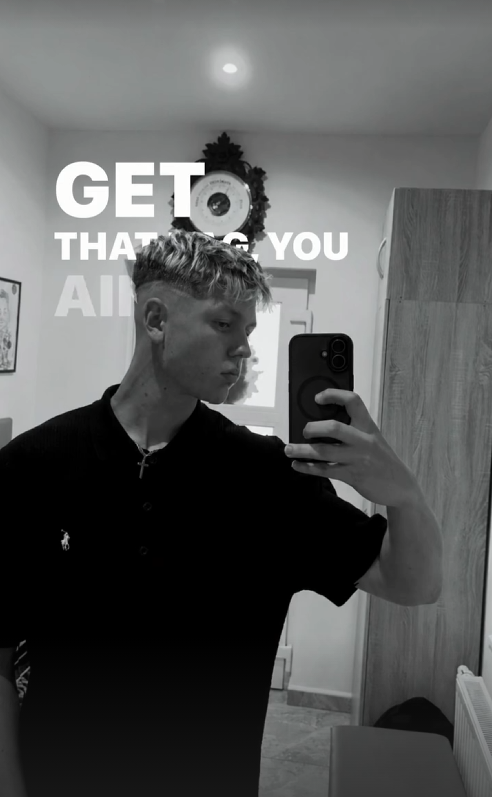
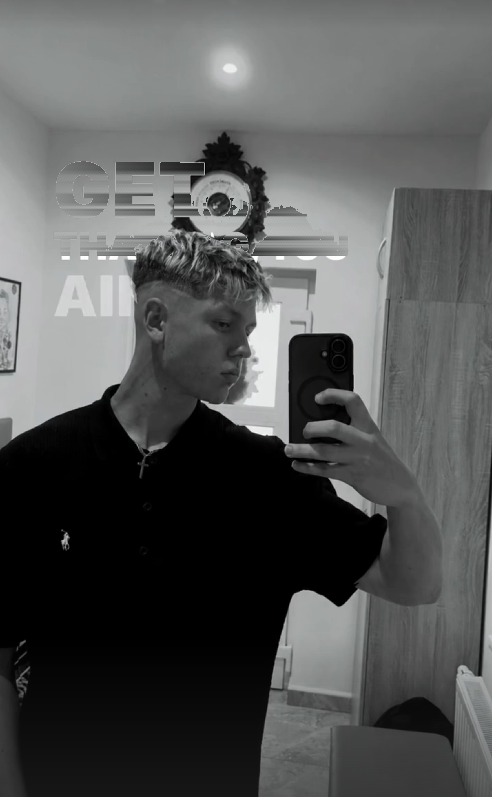
feat: pridani projektu Powerent, aktualizace projektove sekce, retus textu z pozadi fotografie a pristupnost prepinace motivu

Changed region(s): [[0.0915, 0.1807, 0.4268, 0.3312], [0.4573, 0.2409, 0.7317, 0.3312]]

diff --git a/index.html b/index.html
@@ -43,7 +43,7 @@
       </nav>
 
       <div class="nav-actions">
-        <button id="theme-toggle" class="icon-btn" aria-label="Přepnout motiv">
+        <button id="theme-toggle" class="icon-btn" aria-label="Přepnout tmavý/světlý režim" title="Přepnout tmavý/světlý režim">
           <i class="fa-solid fa-sun icon-sun"></i>
           <i class="fa-solid fa-moon icon-moon"></i>
         </button>
@@ -279,42 +279,43 @@
         <!-- Interaktivní filtr projektů -->
         <div class="projects-filter reveal">
           <button class="filter-btn active" data-filter="all">Všechny projekty</button>
-          <button class="filter-btn" data-filter="electro">Elektrotechnika</button>
+          <button class="filter-btn" data-filter="electro">Elektrotechnika & Vývoj</button>
           <button class="filter-btn" data-filter="web">Web & IT</button>
-          <button class="filter-btn" data-filter="sport">Sport & Úspěchy</button>
+          <button class="filter-btn" data-filter="sport">Sport & Zkušenosti</button>
         </div>
 
         <div class="projects-grid">
-          <!-- Projekt 1: Praktické elektro zapojení -->
+          <!-- Projekt 1: Powerent (ve vývoji) -->
           <div class="project-card reveal" data-category="electro">
-            <div class="project-badge"><i class="fa-solid fa-bolt"></i> Školní praxe</div>
+            <div class="project-badge"><i class="fa-solid fa-spinner fa-spin"></i> Ve vývoji</div>
             <div class="project-body">
-              <div class="project-cat">Elektrotechnika</div>
-              <h3 class="project-title">Návrh a realizace měřicího obvodu</h3>
+              <div class="project-cat">Technologický projekt</div>
+              <h3 class="project-title">Powerent</h3>
               <p class="project-desc">
-                Praktické sestavení zkušebního obvodu v dílnách SPŠ Hradební. Schéma zapojení, montáž ochranných prvků a diagnostika parametrů pomocí digitálního multimetru a osciloskopu.
+                Projekt, který vytvářím společně se spolužákem. Aktuálně je ve fázi aktivního vývoje a přípravy („na cestě“). Zaměřuje se na praktické technologické inovace a moderní technická řešení.
               </p>
               <div class="project-tags">
-                <span>Elektroinstalace</span>
-                <span>Měření</span>
-                <span>Bezpečnost</span>
+                <span>Powerent</span>
+                <span>Spolupráce</span>
+                <span>Ve vývoji</span>
               </div>
               <div class="project-footer">
-                <span class="project-meta"><i class="fa-solid fa-calendar-check"></i> Školní rok 2025/2026</span>
+                <span class="project-meta"><i class="fa-solid fa-clock"></i> Aktuálně ve vývoji</span>
               </div>
             </div>
           </div>
 
           <!-- Projekt 2: Osobní webové portfolio -->
           <div class="project-card reveal delay-1" data-category="web">
-            <div class="project-badge"><i class="fa-solid fa-code"></i> Digitální projekt</div>
+            <div class="project-badge"><i class="fa-solid fa-code"></i> Vlastní projekt</div>
             <div class="project-body">
               <div class="project-cat">Webový vývoj</div>
-              <h3 class="project-title">Responzivní osobní portfolio & vizitka</h3>
+              <h3 class="project-title">Osobní web & digitální vizitka</h3>
               <p class="project-desc">
-                Moderní, čistý a plně responzivní statický web vytvořený v HTML5, CSS3 a čistém JavaScriptu. Obsahuje přepínání témat (dark/light), interaktivní filtr projektů, animace při skrolování a hosting přes GitHub Pages.
+                Můj vlastní projekt responzivního osobního portfolia vytvořený od základu v čistém HTML5, moderním CSS3 a JavaScriptu. Zahrnuje přepínání tmavého a světlého režimu, filtrování projektů, animace při skrolování a publikaci na GitHub Pages.
               </p>
               <div class="project-tags">
+                <span>Vlastní tvorba</span>
                 <span>HTML5 / CSS3</span>
                 <span>JavaScript</span>
                 <span>GitHub Pages</span>
@@ -327,42 +328,43 @@
             </div>
           </div>
 
-          <!-- Projekt 3: Plánovaný projekt / Revizní příprava -->
-          <div class="project-card reveal delay-2" data-category="electro">
-            <div class="project-badge"><i class="fa-solid fa-compass-drafting"></i> Plánovaný projekt</div>
+          <!-- Projekt 3: Dlouhodobá fotbalová aktivita -->
+          <div class="project-card reveal delay-2" data-category="sport">
+            <div class="project-badge"><i class="fa-solid fa-futbol"></i> Dlouhodobá aktivita</div>
             <div class="project-body">
-              <div class="project-cat">Revizní technika</div>
-              <h3 class="project-title"><!-- TODO: doplnit --> Příprava modelové revizní zprávy</h3>
+              <div class="project-cat">Sport & Týmovost</div>
+              <h3 class="project-title">Dlouhodobá fotbalová dráha</h3>
               <p class="project-desc">
-                Cílený studijní projekt zaměřený na postup provádění výchozí revize elektrické instalace nízkého napětí podle platných ČSN norem včetně vypracování strukturovaného protokolu.
+                Fotbal hraji dlouhodobě jako svou hlavní sportovní aktivitu. Pravidelný trénink a soutěžní zápasy mi daly pevnou sebedisciplínu, vytrvalost, schopnost táhnout za jeden provaz a odpovědnost vůči celému týmu.
               </p>
               <div class="project-tags">
-                <span>ČSN normy</span>
-                <span>Revizní zpráva</span>
-                <span>Dokumentace</span>
+                <span>Fotbal</span>
+                <span>Dlouhodobá praxe</span>
+                <span>Týmový duch</span>
+                <span>Disciplína</span>
               </div>
               <div class="project-footer">
-                <span class="project-meta"><!-- TODO: doplnit --> Příprava k maturitní práci</span>
+                <span class="project-meta"><i class="fa-solid fa-trophy"></i> Dlouhodobá zkušenost</span>
               </div>
             </div>
           </div>
 
-          <!-- Projekt 4: Sportovní úspěchy & Fotbalový tým -->
-          <div class="project-card reveal delay-3" data-category="sport">
-            <div class="project-badge"><i class="fa-solid fa-medal"></i> Sportovní dráha</div>
+          <!-- Projekt 4: Praktické elektro zapojení a měření -->
+          <div class="project-card reveal delay-3" data-category="electro">
+            <div class="project-badge"><i class="fa-solid fa-bolt"></i> Školní praxe</div>
             <div class="project-body">
-              <div class="project-cat">Sport & Vedení</div>
-              <h3 class="project-title">Aktivní fotbalová kariéra & soutěže</h3>
+              <div class="project-cat">Elektrotechnika</div>
+              <h3 class="project-title">Návrh a realizace měřicího obvodu</h3>
               <p class="project-desc">
-                Dlouhodobé působení ve fotbalovém týmu. Pravidelná účast v soutěžních zápasech, rozvoj fyzické odolnosti a schopnosti koordinovat herní situace v krizových momentech zápasu.
+                Praktické sestavení zkušebního obvodu v dílnách SPŠ Hradební. Schéma zapojení, montáž ochranných prvků a diagnostika parametrů pomocí měřicí techniky.
               </p>
               <div class="project-tags">
-                <span>Týmový sport</span>
-                <span>Disciplína</span>
-                <span>Vytrvalost</span>
+                <span>Elektroinstalace</span>
+                <span>Měření</span>
+                <span>Bezpečnost</span>
               </div>
               <div class="project-footer">
-                <span class="project-meta"><i class="fa-solid fa-trophy"></i> Dlouhodobá aktivita</span>
+                <span class="project-meta"><i class="fa-solid fa-calendar-check"></i> Školní rok 2025/2026</span>
               </div>
             </div>
           </div>

diff --git a/README.md b/README.md
@@ -14,7 +14,7 @@ Web je rozdělen do 6 přehledných sekcí s intuitivní navigací:
    - Software & IT nástroje (CAD, Office, webové technologie, Git),
    - Jazyky & Komunikace (Čeština C2, Angličtina B1),
    - Osobní přednosti (spolehlivost, týmovost, samostatnost).
-4. **Moje projekty a úspěchy:** Ukázky praktických a studijních výstupů doplněné o **interaktivní filtr** (Elektrotechnika, Web & IT, Sport & Úspěchy).
+4. **Moje projekty a úspěchy:** Ukázky praktických a studijních výstupů doplněné o **interaktivní filtr** (Powerent ve vývoji, tvorba tohoto webového portfolia, dlouhodobá fotbalová aktivita a praktická elektro měření).
 5. **Moje budoucnost:** Kariérní časová osa směřující od maturity přes VŠ až po autorizovaného revizního technika.
 6. **Kontakt:** Přehledný kontaktní blok s přímým odkazem na e-mail (`mailto:`), odkazem na GitHub repozitář a profilem.
 
